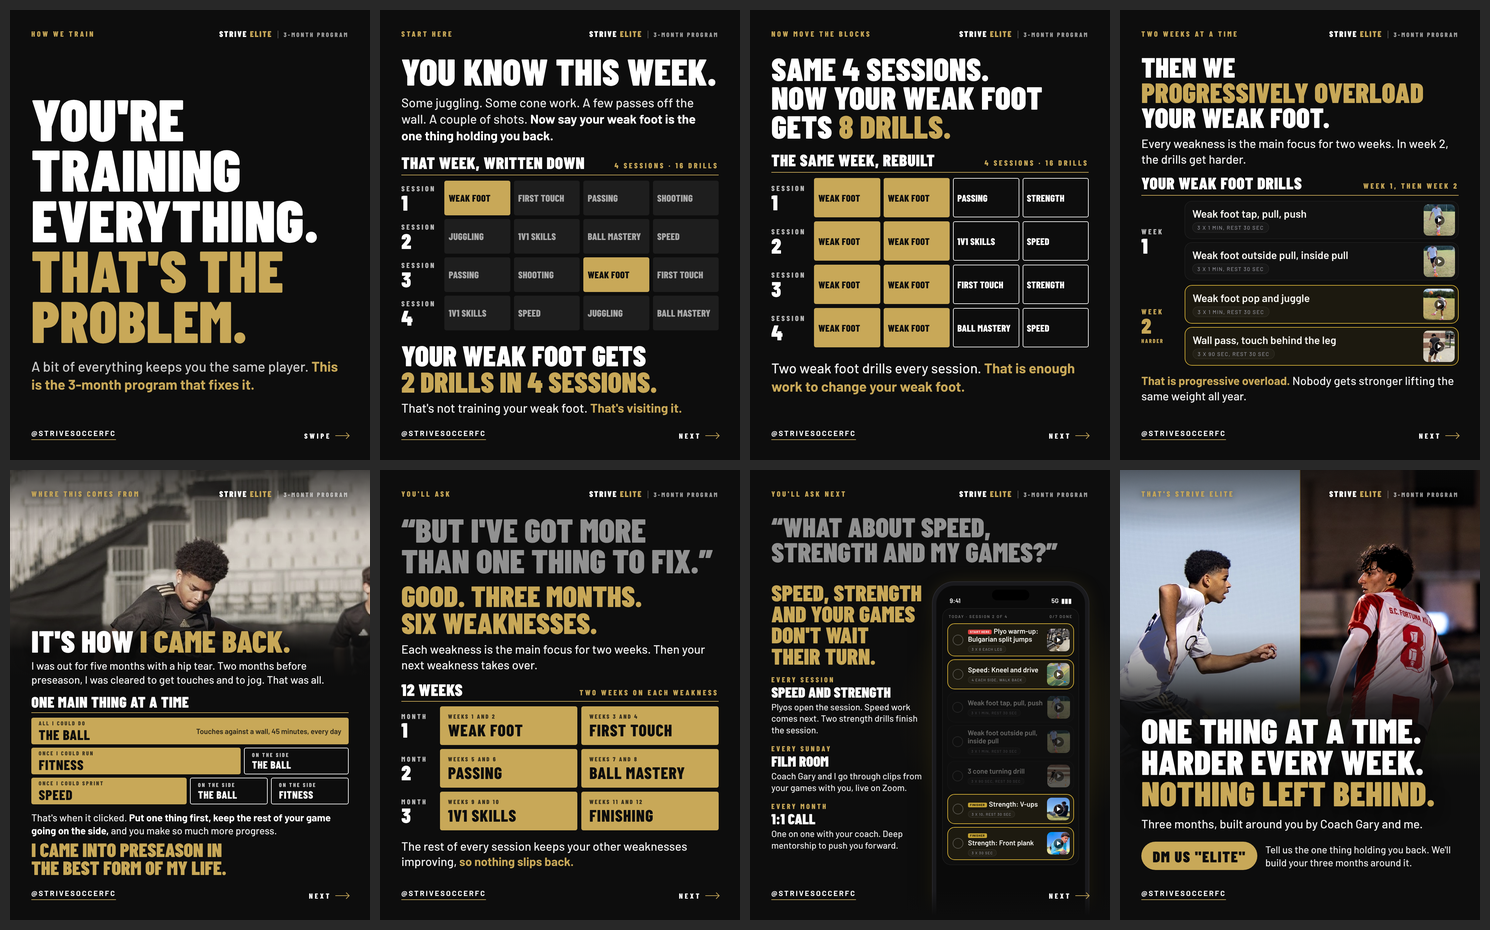
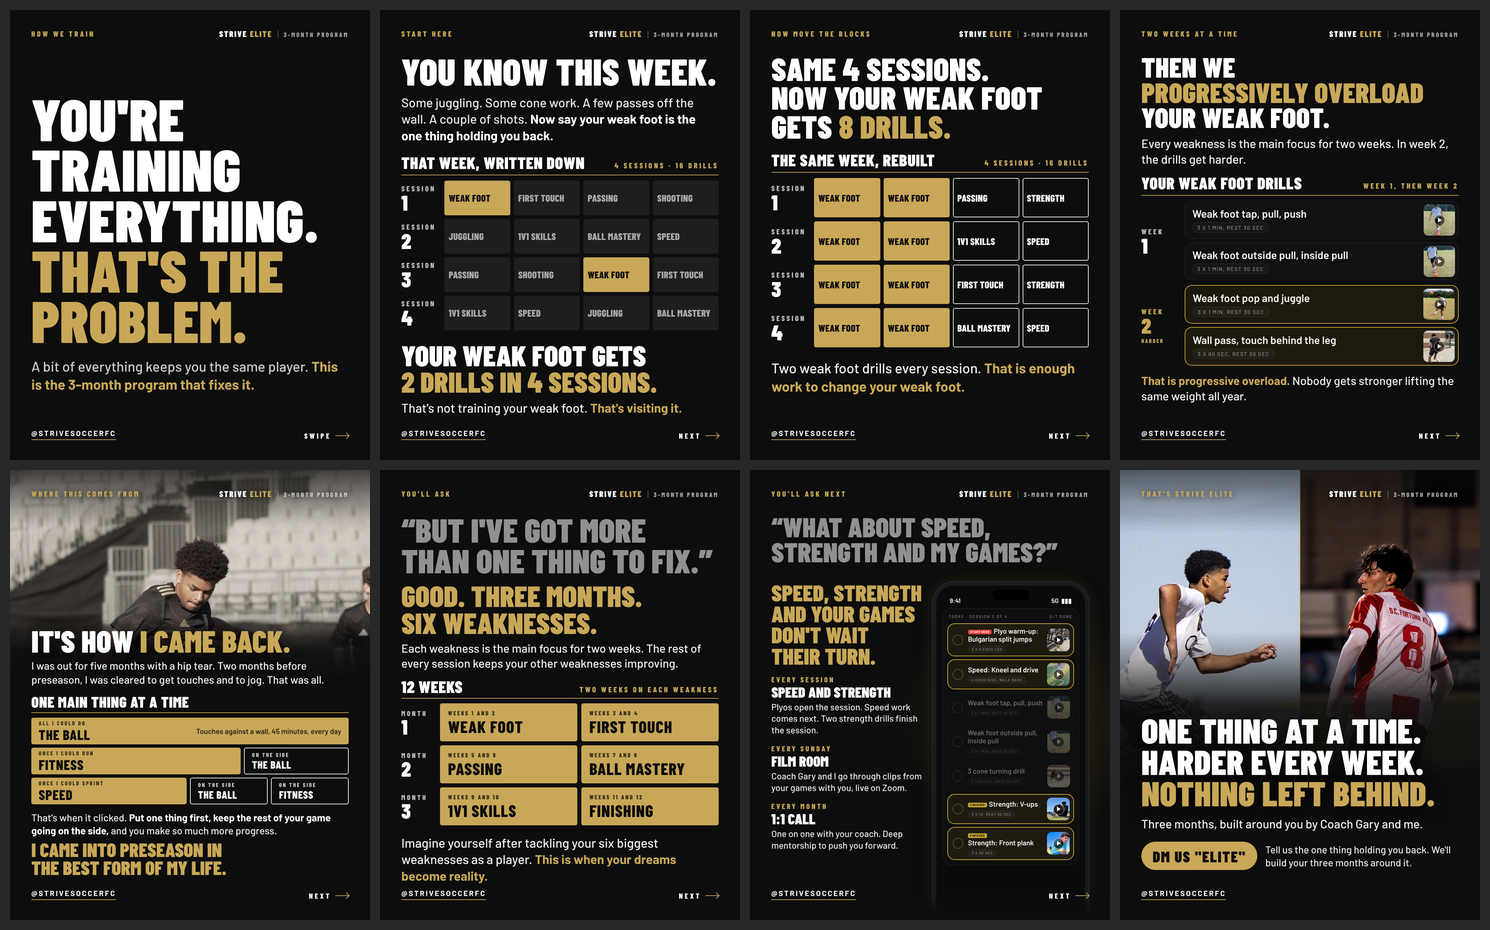
Compact carousel: slide 6 closes on his 'dreams become reality' line
Claude-Session: https://claude.ai/code/session_011JsCTTjCbUkHbTuWTKQSXJ

Changed region(s): [[0.247, 0.686, 0.494, 0.9667]]

diff --git a/marketing/program/one-thing-carousel-4/06-six.html b/marketing/program/one-thing-carousel-4/06-six.html
@@ -2,25 +2,25 @@
 <style>
 .q{font-size:100px}
 .big{margin-top:20px;font-family:'Barlow Condensed';font-weight:900;font-size:88px;line-height:.92;text-transform:uppercase;color:#c8a858}
-.a{margin-top:16px;font-size:36px;line-height:1.3}
-.sched{margin-top:28px}
+.a{margin-top:14px;font-size:35px;line-height:1.3}
+.sched{margin-top:24px}
 .hd{padding-bottom:12px;margin-bottom:14px}
 .m3{display:grid;grid-template-columns:104px 1fr 1fr;gap:12px}
 .m3 .lb{display:flex;flex-direction:column;justify-content:center;font-family:'Barlow Condensed';font-weight:800;font-size:21px;letter-spacing:.24em;text-transform:uppercase;color:rgba(255,255,255,.72)}
 .m3 .lb b{font-weight:900;font-size:62px;line-height:.9;letter-spacing:0;color:#fff}
-.m3 .bk{height:116px;font-size:50px;padding:0 24px}
+.m3 .bk{height:114px;font-size:50px;padding:0 24px}
 .m3 .bk small{font-size:18px;letter-spacing:.2em;margin-bottom:6px;opacity:.8}
-.end{margin-top:24px;font-size:36px;line-height:1.3;font-weight:500;color:rgba(255,255,255,.94)}
+.end{margin-top:28px;font-size:38px;line-height:1.3;font-weight:500;color:rgba(255,255,255,.94)}
 .end b{font-weight:700;color:#c8a858}
 </style>
 <div class="top"><div class="step">You'll ask</div><div class="wm">Strive <span>Elite</span><em>3-month program</em></div></div>
 <div class="pad"><div class="q">&ldquo;But I've got more than one thing to fix.&rdquo;</div>
 <div class="big">Good. Three months.<br>Six weaknesses.</div>
-<p class="p a">Each weakness is the main focus for two weeks. Then your next weakness takes over.</p>
+<p class="p a">Each weakness is the main focus for two weeks. The rest of every session keeps your other weaknesses improving.</p>
 <div class="sched"><div class="hd"><b>12 weeks</b><span>Two weeks on each weakness</span></div><div class="m3">
 <div class="lb">Month<b>1</b></div><div class="bk g"><small>Weeks 1 and 2</small>Weak foot</div><div class="bk g"><small>Weeks 3 and 4</small>First touch</div>
 <div class="lb">Month<b>2</b></div><div class="bk g"><small>Weeks 5 and 6</small>Passing</div><div class="bk g"><small>Weeks 7 and 8</small>Ball mastery</div>
 <div class="lb">Month<b>3</b></div><div class="bk g"><small>Weeks 9 and 10</small>1v1 skills</div><div class="bk g"><small>Weeks 11 and 12</small>Finishing</div>
 </div></div>
-<p class="end">The rest of every session keeps your other weaknesses improving, <b>so nothing slips back.</b></p></div>
+<p class="end">Imagine yourself after tackling your six biggest weaknesses as a player. <b>This is when your dreams become reality.</b></p></div>
 <div class="handle">@strivesoccerfc</div><div class="swipe">Next <i></i></div>

diff --git a/CLAUDE.md b/CLAUDE.md
@@ -4049,6 +4049,7 @@ commit.
       THEN Nov 12 2026 (Coach Yinka, with a screenshot of slide 3 in the Instagram editor: "the week one and week 2 doesn't exactly click for the viewer in this slide let's make adjustments"): the cause was one grid of four sessions sitting under the header "Week 1 and week 2, 4 sessions each", so one week was labelled as two. COMPACT CUT SLIDE 3 REBUILT in two steps: the grid is ONE week, header "THE SAME WEEK, REBUILT / 4 sessions, 16 drills" (the mirror of slide 2's "That week, written down / 4 sessions, 16 drills", so the two slides read as before and after); under it a second header "THEN THE SAME WEEK AGAIN / With harder drills" over Week 1 "Weak foot tap, pull, push", an arrow, Week 2, harder, "Weak foot pop and juggle"; closing line "Two weeks. Sixteen weak foot drills. Nobody gets stronger lifting the same weight all year." (8 a week for two weeks). Headline unchanged. Sent, not posted.
       THEN Nov 12 2026 (Coach Yinka: "What do you mean the same week again, add another slide showing the visual of the weak foot drills going over how we break up the focuses 2 weeks at a time and use the word progressively overload"): "then the same week again" was my wording and it is GONE. The compact cut is EIGHT slides (files renumbered: 05-story, 06-six, 07-every-week, 08-close). SLIDE 3 is back to one idea: the rebuilt week, "Two weak foot drills every session. That is enough work to change your weak foot." NEW SLIDE 4 (04-overload): "THEN WE PROGRESSIVELY OVERLOAD YOUR WEAK FOOT." / "Every weakness is the main focus for two weeks. In week 2, the drills get harder." / YOUR WEAK FOOT DRILLS, week 1, then week 2, as the app's drill cards with frames of the clips: Week 1 "Weak foot tap, pull, push" and "Weak foot outside pull, inside pull"; Week 2, harder, lit, "Weak foot pop and juggle" and "Wall pass, touch behind the leg" (bank titles and reps; the wall drill means a player with a wall) / "That is progressive overload. Nobody gets stronger lifting the same weight all year." FLAG: which two drills are week 1 and which two are week 2 is my pick from the bank, his to change. Slides 3 and 4 sent, not posted.
       THEN Nov 12 2026 (Coach Yinka, with a screenshot of the six-weaknesses slide: "Take speed off this slide bc it's on the next and make this slide more simple to understand, replace it with finishing"): compact cut SLIDE 6 REBUILT. Weeks 11 and 12 are FINISHING (Speed is off this slide; it is on the next one). SIMPLER: the long paragraph and the tall white "your other weaknesses" block are gone. It now reads: the objection, "GOOD. THREE MONTHS. SIX WEAKNESSES.", "Each weakness is the main focus for two weeks. Then your next weakness takes over.", the 12 WEEKS graphic as three rows of two gold blocks (Month 1 Weak foot, First touch; Month 2 Passing, Ball mastery; Month 3 1v1 skills, Finishing), and one closing line, "The rest of every session keeps your other weaknesses improving, so nothing slips back." FLAG, his call: THE APP CANNOT BUILD A FINISHING FOCUS TODAY. Shooting and finishing were left out of the program on his word Nov 11 and the bank holds zero shooting or finishing drills, so a member who asks for those two weeks cannot be given them until the clips are filmed and banked; same standing as Scoring Goals on the offer post. The twelve-slide version still shows Speed there. Sent, not posted.
+      THEN Nov 12 2026 (Coach Yinka: "Imagine yourself after tackling your 6 biggest weaknesses as a player. This is when your dreams become reality"): his line is the closing line of compact cut slide 6, under the 12 weeks, with "This is when your dreams become reality." in gold ("six" spelled out to match the headline). To make room, "nothing slips back" is gone and the line under the headline now carries both halves: "Each weakness is the main focus for two weeks. The rest of every session keeps your other weaknesses improving." I READ THE LINE AS MEANT FOR THIS SLIDE and said so; it also fits the close if he meant that. Sent, not posted.
 
 ## Skills (use them without being asked)
 

diff --git a/marketing/program/one-thing-carousel-4/README.md b/marketing/program/one-thing-carousel-4/README.md
@@ -31,10 +31,11 @@ Same look, same approved lines, merged. Render: `node render.mjs 02-your-week.ht
    thing at a time, the best form of my life.
 6. `06-six` (simplified Nov 12). "BUT I'VE GOT MORE THAN ONE THING TO FIX." /
    GOOD. THREE MONTHS. SIX WEAKNESSES. / Each weakness is the main focus for
-   two weeks. Then your next weakness takes over. / 12 WEEKS, two weeks on
-   each weakness: Month 1 Weak foot, First touch; Month 2 Passing, Ball
-   mastery; Month 3 1v1 skills, Finishing / The rest of every session keeps
-   your other weaknesses improving, so nothing slips back.
+   two weeks. The rest of every session keeps your other weaknesses
+   improving. / 12 WEEKS, two weeks on each weakness: Month 1 Weak foot, First
+   touch; Month 2 Passing, Ball mastery; Month 3 1v1 skills, Finishing /
+   Imagine yourself after tackling your six biggest weaknesses as a player.
+   This is when your dreams become reality. (his line)
 7. `07-every-week`. "WHAT ABOUT SPEED, STRENGTH AND MY GAMES?" / SPEED,
    STRENGTH AND YOUR GAMES DON'T WAIT THEIR TURN. / Every session, SPEED AND
    STRENGTH / Every Sunday, FILM ROOM / Every month, 1:1 CALL (One on one with
